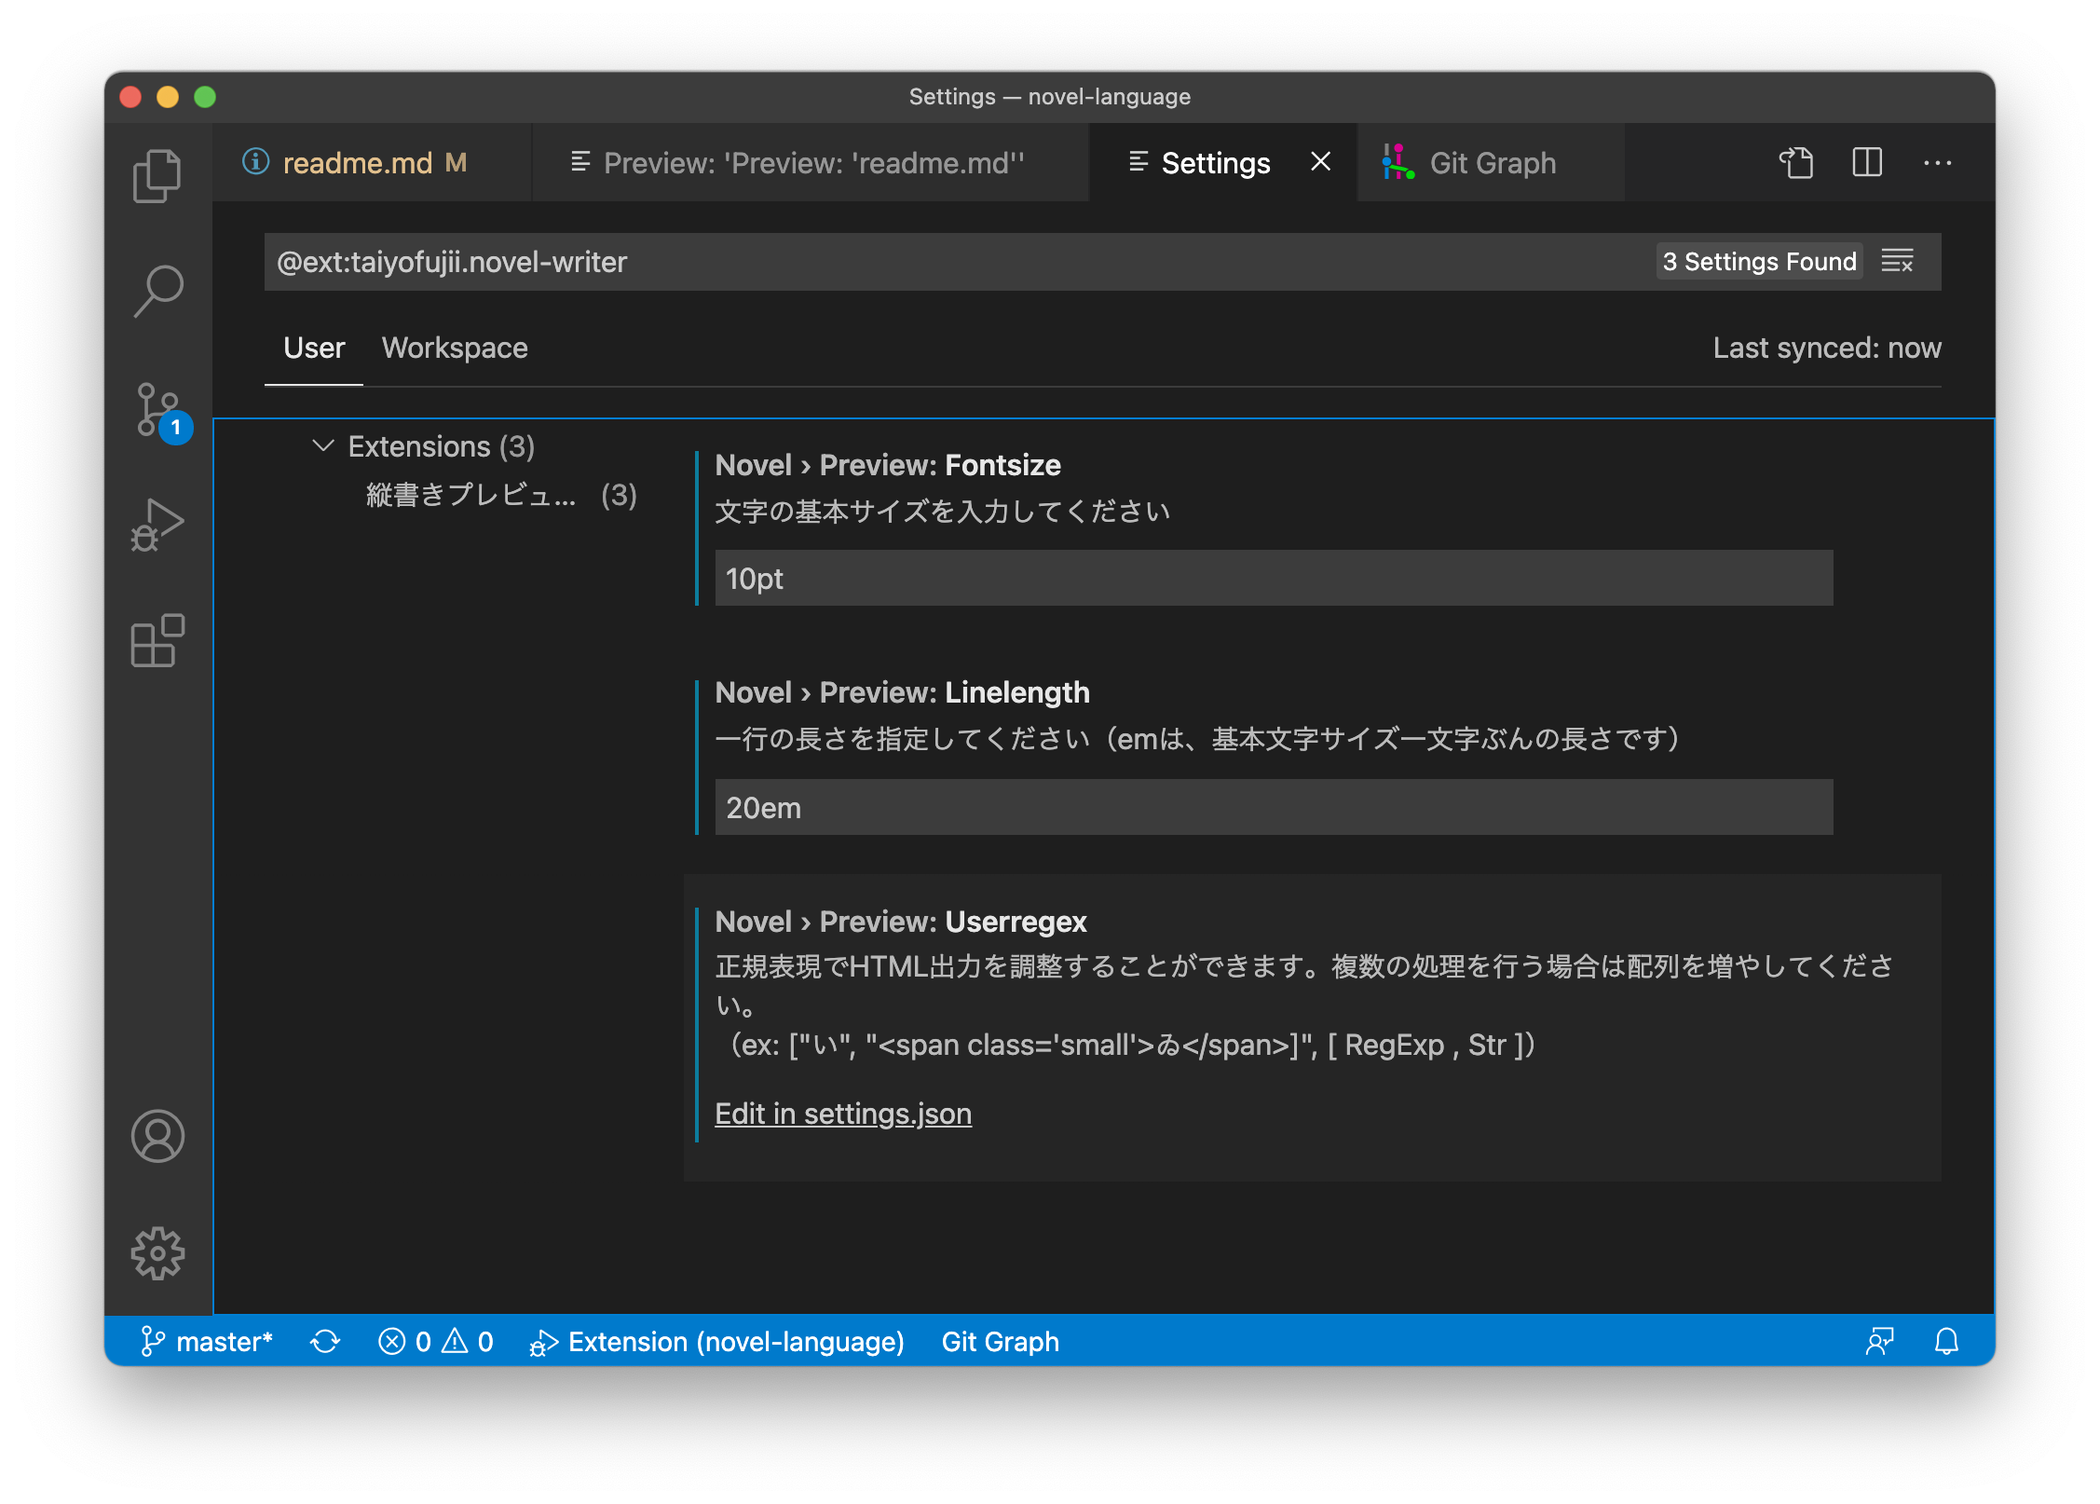
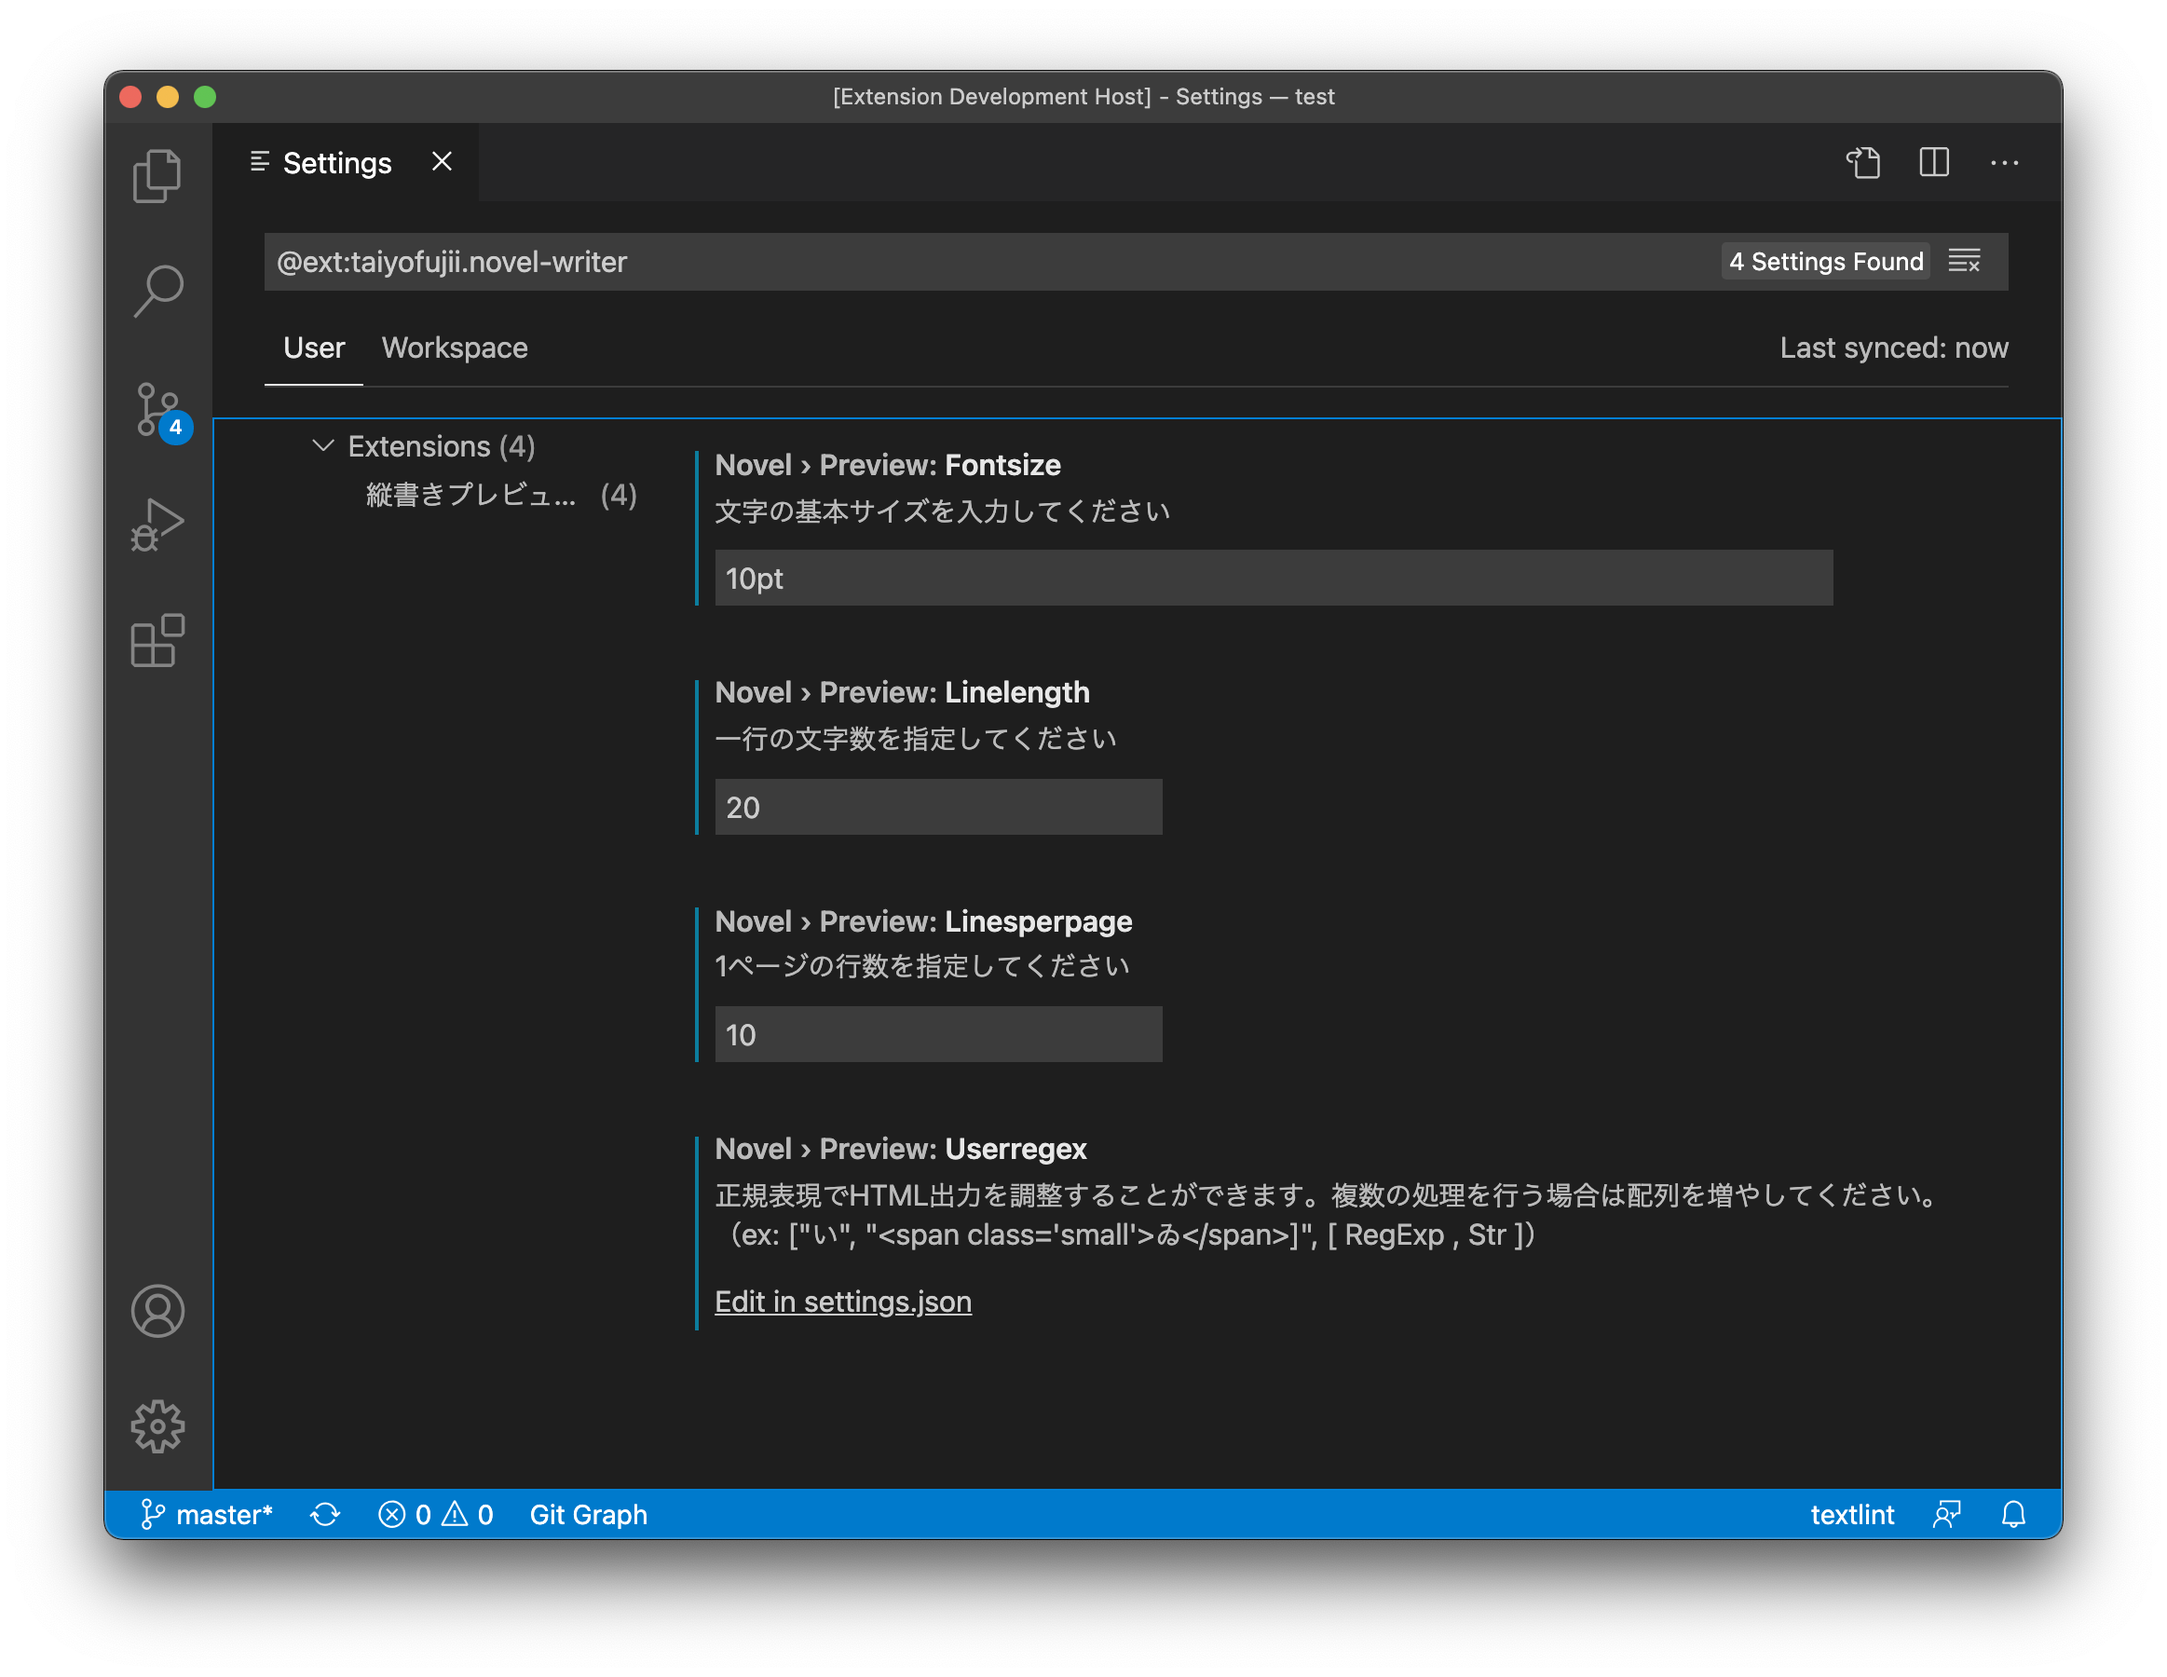
releasing 0.3.0

Changed region(s): [[0.0311, 0.031, 0.9627, 0.9603], [0.3106, 0.6815, 0.8075, 0.8055]]

diff --git a/extension.js b/extension.js
@@ -78,8 +78,6 @@ function markUpHtml( myhtml ){
         //if ( thismatch && thisreplace ){
             var thismatch = new RegExp(element[0], 'gi');
             var thisreplace = element[1];
-    
-            console.log(thismatch,thisreplace);
             taggedHTML = taggedHTML.replace(thismatch, thisreplace);
         //}
     });
@@ -93,10 +91,20 @@ function markUpHtml( myhtml ){
 
 function getWebviewContent(userstylesheet) {
 
-        //configuration 読み込み
-        const config = vscode.workspace.getConfiguration('Novel');
+    //configuration 読み込み
+    const config = vscode.workspace.getConfiguration('Novel');
+        let lineheightrate = 1.75;
         let fontsize = config.get('preview.fontsize');
+        let numfontsize = /(\d+)(\D+)/.exec(fontsize)[1];
+        let unitoffontsize = /(\d+)(\D+)/.exec(fontsize)[2];
+
         let linelength = config.get('preview.linelength');
+        let linesperpage = config.get('preview.linesperpage');
+
+        let pagewidth = ( linesperpage * numfontsize * lineheightrate * 1.003) + unitoffontsize;
+        let pageheight = (linelength * numfontsize) + unitoffontsize;
+        let lineheight = ( numfontsize * lineheightrate) + unitoffontsize;
+        //console.log(lineheight);
 
     var mytext = editorText();
     return `<!DOCTYPE html>
@@ -125,21 +133,9 @@ function getWebviewContent(userstylesheet) {
         body {
             writing-mode: vertical-rl;
             font-family:"ヒラギノ明朝 ProN W3", "HiraMinProN-W3", serif, sans-serif;
-            font-size: ${fontsize};
-            height: ${linelength};
-        }
-        
-        body.title {
-            writing-mode: horizontal-tb;
-            -webkit-writing-mode: horizontal-tb;
-            -epub-writing-mode: horizontal-tb;
-            background-image: url('../images/cover.jpg');
-            background-repeat: no-repeat;
-        }
-        
-        p {
-            font-size 1em;;
-            margin:0 0 0 0;
+            height: ${pageheight};
+            overflow-y:hidden;
+            padding:0;
         }
         
         #cursor {
@@ -150,8 +146,11 @@ function getWebviewContent(userstylesheet) {
         }
 
         p {
+            height: ${pageheight};
             font-family:"ヒラギノ明朝 ProN W3", "HiraMinProN-W3", serif, sans-serif;
-            line-height: 1.75em;
+            line-height: ${lineheightrate};
+            font-size: ${fontsize};
+            margin:0 0 0 0;
             vertical-align: middle;
         }
 
@@ -184,6 +183,26 @@ function getWebviewContent(userstylesheet) {
                 }
             }
       </style>
+
+      <style>
+      body{
+        background-image:   linear-gradient(to right, rgba(50, 50, 50, 0.5) 0.5pt, rgba(0, 0, 50, 0.05) 10em);
+        background-size:    ${pagewidth} ${pageheight};
+        background-repeat:  repeat-x;
+        background-position: right 0px;
+    }
+    p{
+        background-image:   linear-gradient( rgba(50, 50, 50, 1) 0.5pt, transparent 1pt),
+                            linear-gradient(to right, rgba(50, 50, 50, 1) 0.5pt, rgba(0, 0, 50, 0.05) 1pt);
+        background-size:    ${lineheight} ${fontsize},
+                            ${lineheight} ${fontsize};
+        background-repeat:  repeat,
+                            repeat;
+        background-position: right 0px,
+                            right 0px;
+    }
+
+        </style>
       <link rel="stylesheet" href="">
   </head>
   <body>

diff --git a/readme.md b/readme.md
@@ -18,7 +18,7 @@
 
 メニューの\[Novel:縦書きプレビュー\]で、現在使っているエディタのテキストを、HTMLの縦書きでプレビューすることができます。
 
-Extension Settings で、文字サイズと一行の長さを設定してお使いください。正規表現による検索置換も実装しましたので、オリジナルのタグを挿入することも可能です。
+Extension Settings で、文字サイズと一行あたりの文字数、ページあたりの行数を設定してお使いください。正規表現による検索置換も実装しましたので、オリジナルのタグを挿入することも可能です。
 
 ![プレビュー画像](https://github.com/ttrace/vscode-language-japanese-novel/raw/master/resource/preview-settings.png)
 
